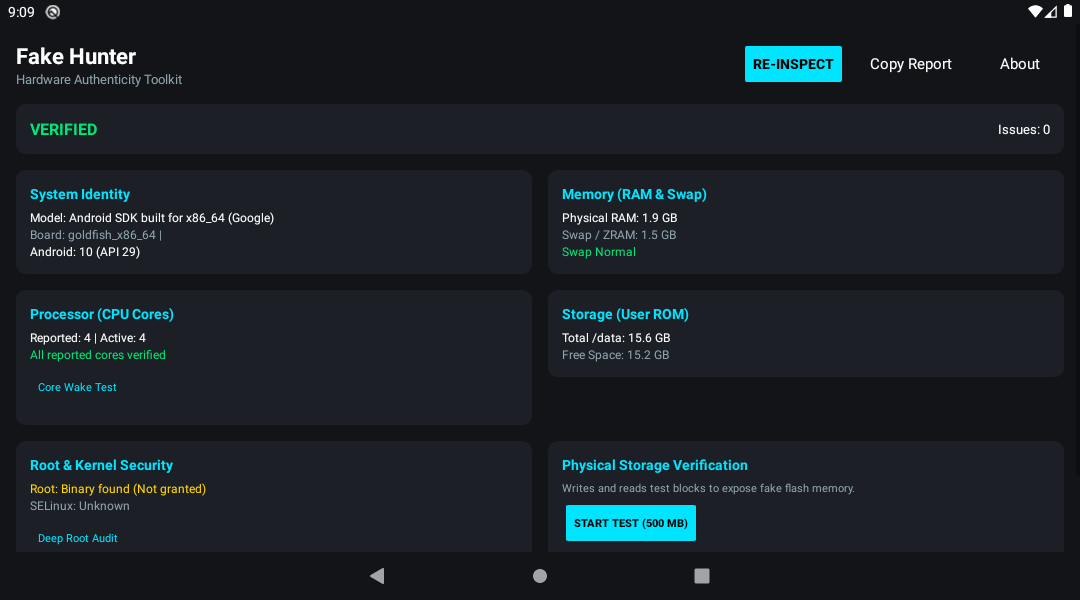
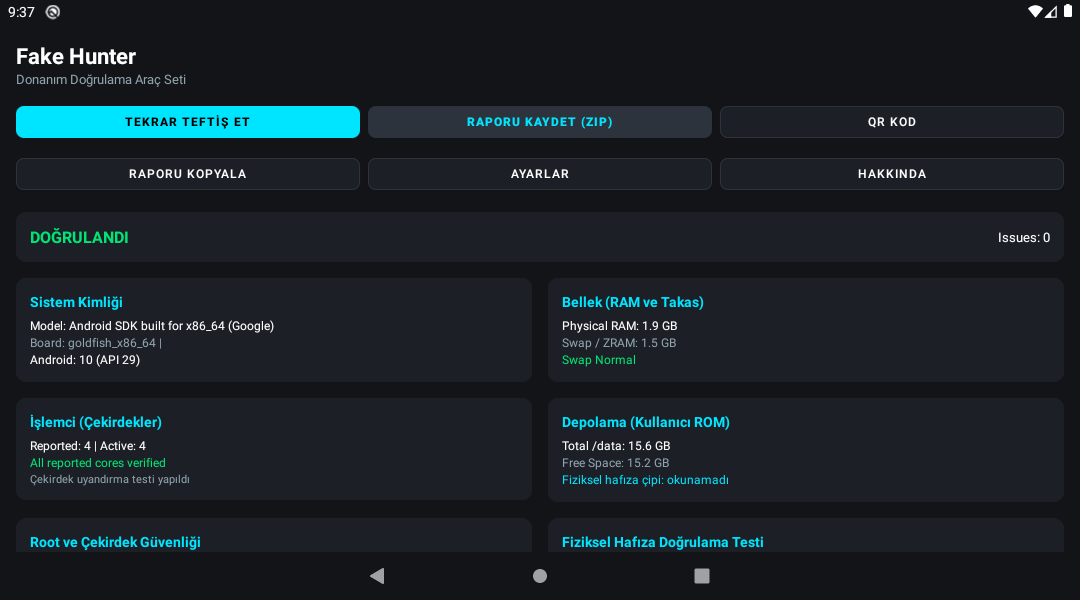
fix(classic): align action buttons and apply dark material theme to dialogs

diff --git a/app/src/classic/java/com/gokcank/fakehunter/MainActivity.kt b/app/src/classic/java/com/gokcank/fakehunter/MainActivity.kt
@@ -3,15 +3,16 @@ package com.gokcank.fakehunter
 import android.content.ClipData
 import android.content.ClipboardManager
 import android.content.Context
+import android.content.res.ColorStateList
 import android.graphics.Color
 import android.os.Bundle
 import android.view.LayoutInflater
 import android.view.View
 import android.widget.*
 import androidx.activity.result.contract.ActivityResultContracts
-import androidx.appcompat.app.AlertDialog
 import androidx.appcompat.app.AppCompatActivity
 import androidx.cardview.widget.CardView
+import com.google.android.material.dialog.MaterialAlertDialogBuilder
 import com.gokcank.fakehunter.core.detector.HardwareDetector
 import com.gokcank.fakehunter.core.export.EvidenceCollector
 import com.gokcank.fakehunter.core.model.AuditOptions
@@ -164,7 +165,7 @@ class MainActivity : AppCompatActivity() {
             addView(imageView)
         }
 
-        AlertDialog.Builder(this)
+        MaterialAlertDialogBuilder(this, R.style.Theme_FakeHunter_Dialog)
             .setTitle(getString(R.string.qr_dialog_title))
             .setView(container)
             .setPositiveButton(getString(R.string.btn_close), null)
@@ -177,6 +178,10 @@ class MainActivity : AppCompatActivity() {
         var autoRoot = SettingsManager.isAutoRoot(this)
         var storageMb = SettingsManager.getStorageTestMb(this)
 
+        val accentColor = Color.parseColor("#00E5FF")
+        val cyanCsl = ColorStateList.valueOf(accentColor)
+        val cardStrokeColor = Color.parseColor("#2D333D")
+
         val container = LinearLayout(this).apply {
             orientation = LinearLayout.VERTICAL
             val p = (16 * resources.displayMetrics.density).toInt()
@@ -186,26 +191,32 @@ class MainActivity : AppCompatActivity() {
         // Language radio group
         val tvLangHeader = TextView(this).apply {
             text = getString(R.string.settings_language)
-            setTextColor(Color.parseColor("#00E5FF"))
+            setTextColor(accentColor)
             textSize = 14f
             setTypeface(null, android.graphics.Typeface.BOLD)
         }
         container.addView(tvLangHeader)
 
-        val rgLang = RadioGroup(this)
+        val rgLang = RadioGroup(this).apply {
+            val pTop = (4 * resources.displayMetrics.density).toInt()
+            setPadding(0, pTop, 0, 0)
+        }
         val rbSystem = RadioButton(this).apply {
             text = getString(R.string.settings_lang_system)
             setTextColor(Color.WHITE)
+            buttonTintList = cyanCsl
             isChecked = selectedLang == SettingsManager.LANG_SYSTEM
         }
         val rbTr = RadioButton(this).apply {
             text = getString(R.string.settings_lang_tr)
             setTextColor(Color.WHITE)
+            buttonTintList = cyanCsl
             isChecked = selectedLang == SettingsManager.LANG_TR
         }
         val rbEn = RadioButton(this).apply {
             text = getString(R.string.settings_lang_en)
             setTextColor(Color.WHITE)
+            buttonTintList = cyanCsl
             isChecked = selectedLang == SettingsManager.LANG_EN
         }
         rgLang.addView(rbSystem)
@@ -215,9 +226,10 @@ class MainActivity : AppCompatActivity() {
 
         // Divider
         container.addView(View(this).apply {
-            setBackgroundColor(Color.parseColor("#2D333D"))
+            setBackgroundColor(cardStrokeColor)
             layoutParams = LinearLayout.LayoutParams(LinearLayout.LayoutParams.MATCH_PARENT, 2).apply {
-                setMargins(0, 16, 0, 16)
+                val m = (12 * resources.displayMetrics.density).toInt()
+                setMargins(0, m, 0, m)
             }
         })
 
@@ -225,6 +237,7 @@ class MainActivity : AppCompatActivity() {
         val cbAutoRoot = CheckBox(this).apply {
             text = getString(R.string.settings_auto_root)
             setTextColor(Color.WHITE)
+            buttonTintList = cyanCsl
             isChecked = autoRoot
         }
         container.addView(cbAutoRoot)
@@ -232,30 +245,40 @@ class MainActivity : AppCompatActivity() {
             text = getString(R.string.settings_auto_root_desc)
             setTextColor(Color.parseColor("#90A4AE"))
             textSize = 11f
+            val pStart = (28 * resources.displayMetrics.density).toInt()
+            setPadding(pStart, 0, 0, 0)
         })
 
         // Divider
         container.addView(View(this).apply {
-            setBackgroundColor(Color.parseColor("#2D333D"))
+            setBackgroundColor(cardStrokeColor)
             layoutParams = LinearLayout.LayoutParams(LinearLayout.LayoutParams.MATCH_PARENT, 2).apply {
-                setMargins(0, 16, 0, 16)
+                val m = (12 * resources.displayMetrics.density).toInt()
+                setMargins(0, m, 0, m)
             }
         })
 
         // Storage Test Size
         val tvStorageHeader = TextView(this).apply {
             text = getString(R.string.settings_storage_test)
-            setTextColor(Color.parseColor("#00E5FF"))
+            setTextColor(accentColor)
             textSize = 14f
             setTypeface(null, android.graphics.Typeface.BOLD)
         }
         container.addView(tvStorageHeader)
+        container.addView(TextView(this).apply {
+            text = getString(R.string.settings_storage_test_desc)
+            setTextColor(Color.parseColor("#90A4AE"))
+            textSize = 11f
+            setPadding(0, 2, 0, 4)
+        })
 
         val rgStorage = RadioGroup(this).apply { orientation = LinearLayout.HORIZONTAL }
         listOf(100, 250, 500).forEach { size ->
             val rb = RadioButton(this).apply {
                 text = "$size MB"
                 setTextColor(Color.WHITE)
+                buttonTintList = cyanCsl
                 isChecked = storageMb == size
                 setOnClickListener { storageMb = size }
             }
@@ -263,7 +286,7 @@ class MainActivity : AppCompatActivity() {
         }
         container.addView(rgStorage)
 
-        AlertDialog.Builder(this)
+        MaterialAlertDialogBuilder(this, R.style.Theme_FakeHunter_Dialog)
             .setTitle(getString(R.string.settings_title))
             .setView(container)
             .setPositiveButton(getString(R.string.btn_close)) { _, _ ->
@@ -475,7 +498,7 @@ class MainActivity : AppCompatActivity() {
             appendLine(getString(R.string.about_github_url))
         }.toString()
 
-        AlertDialog.Builder(this)
+        MaterialAlertDialogBuilder(this, R.style.Theme_FakeHunter_Dialog)
             .setTitle(getString(R.string.about_title))
             .setMessage(message)
             .setPositiveButton(getString(R.string.btn_close), null)
